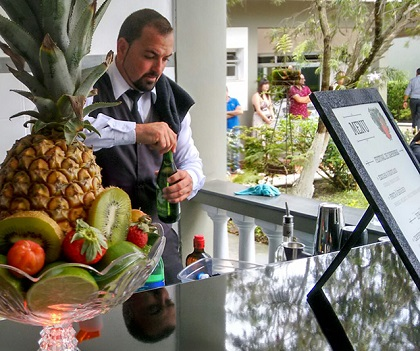
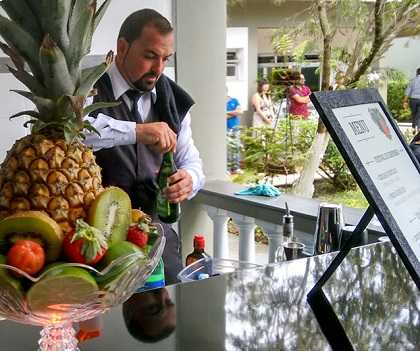
otimizado (mais leve)
Mais espaço entre elementos
Menu mobile melhor

diff --git a/css.css b/css.css
@@ -30,7 +30,7 @@ section{
 	position: relative;
 	box-shadow: 0 3px var(--azul) inset;
 	background-color: var(--branco_claro);
-	padding: 6% 0;
+	padding: 2em 0;
 }
 section:nth-child(odd){
 	background-color: var(--branco_escuro);
@@ -109,7 +109,7 @@ ul{
 /*INICIO - MENU*/
 nav{
 	font-family: GeoSlab;
-	right: -10em;
+	right: -100%;
 	z-index: 10;
 	position: fixed;
 	transition: .75s;
@@ -122,10 +122,13 @@ nav{
 }
 /* .menu_aberto e .fundo_visivel são adicionados via js*/
 nav.menu_aberto a, #tres_barrinhas.fundo_visivel{
-	background-color: rgba(41,34,28,0.7);
+	background-color: rgba(41,34,28,0.9);
 }
 nav.menu_aberto{
 	right: 0em;
+}
+nav.menu_aberto #tres_barrinhas{
+	border-radius: 0;
 }
 #tres_barrinhas{
 	position: fixed;
@@ -134,7 +137,7 @@ nav.menu_aberto{
 	align-items: center;
 	justify-content: center;
 	font-size: 90px;
-	color: white;
+	color: var(--branco_claro);
 	transition: .3s;
 	border-radius: 1em;
 	width: 1em;
@@ -143,11 +146,11 @@ nav.menu_aberto{
 	top: 0;
 }
 nav a{
-	color: white;
+	color: var(--branco_claro);
 	text-decoration: none;
 	display: inline-block;
 	font-size: 30px;
-	border-radius: .5em 0 0 .5em;
+	border: 2px solid var(--azul);
 	padding: 0.5em;
 	transition: background .75s;
 }
@@ -248,7 +251,7 @@ nav a:hover::before{
 	padding: .5em 1em;
 	border: 2px solid var(--azul);
 	display: inline-block;
-	margin-top: 1em;
+	margin: 2em 0 1em;
 	transition: .25s;
 }
 #servicos a:hover{
@@ -300,4 +303,15 @@ nav a:hover::before{
 }
 .links_sociais a img{
 	filter: invert(1);
+}
+
+/*para telas pequenas*/
+@media screen and (max-width: 450px) {
+	nav {
+		width: 100%;
+		transition: none;
+	}
+	nav a{
+		transition: none;
+	}
 }

diff --git a/index.html b/index.html
@@ -1,4 +1,4 @@
-<html>
+<html lang=pt-BR>
 <head>
 	<title>NN Bartenders</title>
 	<meta charset="utf-8">
